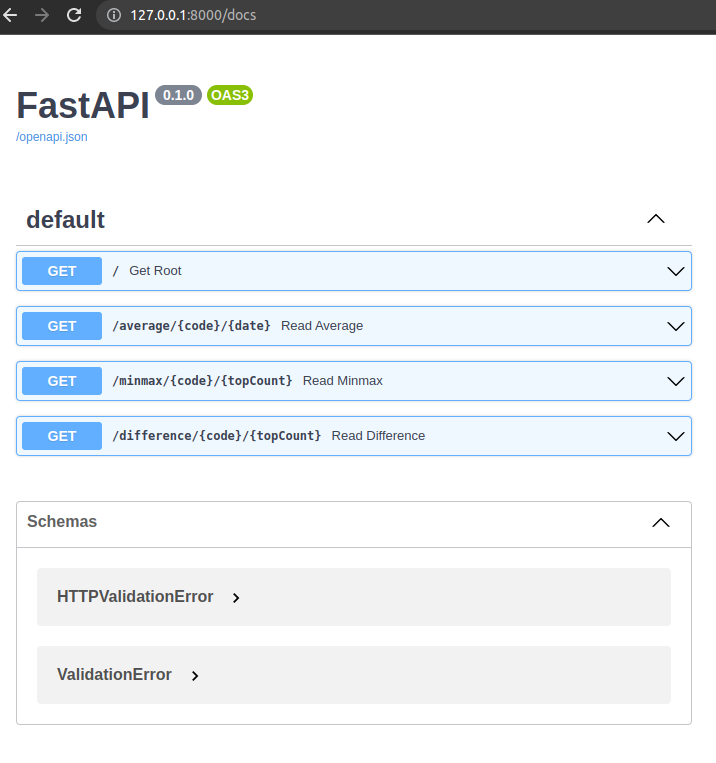
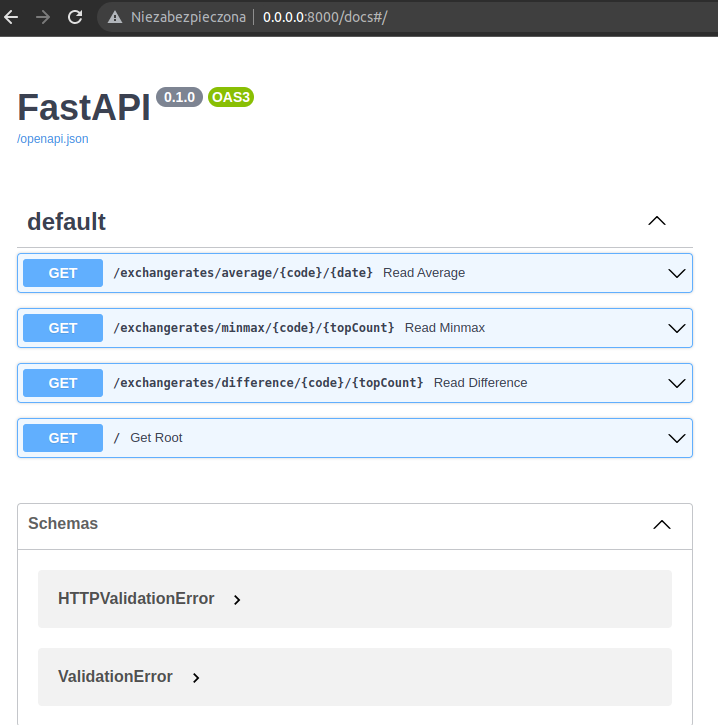
refactor structure

diff --git a/app/main.py b/app/main.py
@@ -1,8 +1,6 @@
 from fastapi import FastAPI
-import requests
-from collections import Counter
-from datetime import date
 from app.core.config import get_app_settings
+from app.api import exchangerates
 
 
 def get_application() -> FastAPI:
@@ -13,41 +11,9 @@ def get_application() -> FastAPI:
 
 
 app = get_application()
+app.include_router(exchangerates.router)
+
 
 @app.get("/")
 def get_root():
     return {"message": "Great, it works. Now you can check our endpoints."}
-
-
-@app.get("/average/{code}/{date}")
-def read_average(code: str, date: date):
-    url = f'http://api.nbp.pl/api/exchangerates/rates/A/{code}/{date}/?format=json'
-    req = requests.get(url)
-    response = req.json()
-    avg = response['rates'][0]['mid']
-    res = {"average": avg}
-    return res
-
-
-@app.get("/minmax/{code}/{topCount}")
-def read_minmax(code: str, topCount: int):
-    url = f"http://api.nbp.pl/api/exchangerates/rates/a/{code}/last/{topCount}/?format=json"
-    req = requests.get(url)
-    response = req.json()
-    minmax_list = [x['mid'] for x in response['rates']]
-    res = {'min': min(minmax_list), 'max': max(minmax_list)}
-    return res
-
-
-@app.get("/difference/{code}/{topCount}")
-def read_difference(code: str, topCount: int):
-    url = f"http://api.nbp.pl/api/exchangerates/rates/c/{code}/last/{topCount}/?format=json"
-
-    req = requests.get(url)
-    response = req.json()
-    difference: list = [round(x['ask'] - x['bid'], 4) for x in response['rates']]
-    max_diff = max(difference)
-    most_common_diff = Counter(difference).most_common(1)[0][0]
-    res = {"max difference": max_diff, "most common difference": most_common_diff}
-    return res
-

diff --git a/app/api/exchangerates.py b/app/api/exchangerates.py
@@ -1,11 +1,39 @@
 import requests
-from datetime import datetime
 from fastapi import APIRouter
+from collections import Counter
+from datetime import date
 
 router = APIRouter(prefix="/exchangerates")
 
 
-@router.get("/{code}/{data}")
-def read_exchanges(code: str, date: datetime.date):
-    req = requests.get(f'http://api.nbp.pl/api/exchangerates/rates/A/{code}/{date}/?format=json')
-    return req
+@router.get("/average/{code}/{date}")
+def read_average(code: str, date: date):
+    url = f'http://api.nbp.pl/api/exchangerates/rates/A/{code}/{date}/?format=json'
+    req = requests.get(url)
+    response = req.json()
+    avg = response['rates'][0]['mid']
+    res = {"average": avg}
+    return res
+
+
+@router.get("/minmax/{code}/{topCount}")
+def read_minmax(code: str, topCount: int):
+    url = f"http://api.nbp.pl/api/exchangerates/rates/a/{code}/last/{topCount}/?format=json"
+    req = requests.get(url)
+    response = req.json()
+    minmax_list = [x['mid'] for x in response['rates']]
+    res = {'min': min(minmax_list), 'max': max(minmax_list)}
+    return res
+
+
+@router.get("/difference/{code}/{topCount}")
+def read_difference(code: str, topCount: int):
+    url = f"http://api.nbp.pl/api/exchangerates/rates/c/{code}/last/{topCount}/?format=json"
+
+    req = requests.get(url)
+    response = req.json()
+    difference: list = [round(x['ask'] - x['bid'], 4) for x in response['rates']]
+    max_diff = max(difference)
+    most_common_diff = Counter(difference).most_common(1)[0][0]
+    res = {"max difference": max_diff, "most common difference": most_common_diff}
+    return res
